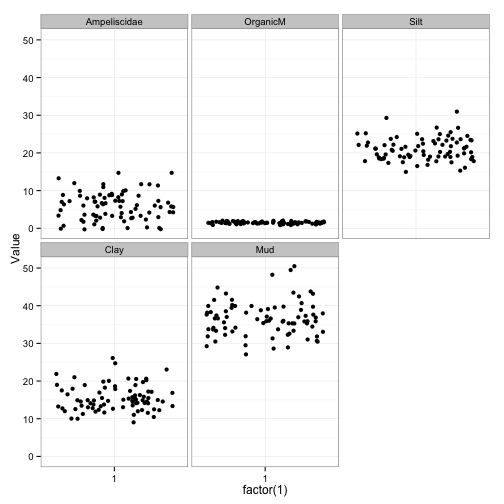
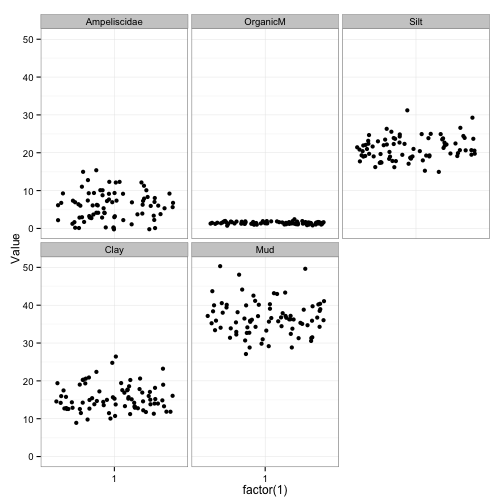
glm assignment (Updated with final plot

diff --git a/GLM_PoisNB.md b/GLM_PoisNB.md
@@ -95,7 +95,7 @@ xtable(table(Benthos$Ampeliscidae))
 ```
 
 % latex table generated in R 3.1.1 by xtable 1.7-4 package
-% Tue May  5 01:02:11 2015
+% Tue May  5 01:12:02 2015
 \begin{table}[ht]
 \centering
 \begin{tabular}{rr}
@@ -120,11 +120,6 @@ xtable(table(Benthos$Ampeliscidae))
    \hline
 \end{tabular}
 \end{table}
-
-
-```
-## stat_bin: binwidth defaulted to range/30. Use 'binwidth = x' to adjust this.
-```
 
 ![plot of chunk unnamed-chunk-5](figure/unnamed-chunk-5-1.png) 
 
@@ -201,15 +196,13 @@ pairs(Benthos[, c("OrganicM", "Mud", "Silt", "Clay")])
 cor(Benthos[, c("OrganicM", "Mud", "Silt", "Clay")]) %>% stargazer(type='html')
 ```
 
-```
-## 
-## <table style="text-align:center"><tr><td colspan="5" style="border-bottom: 1px solid black"></td></tr><tr><td style="text-align:left"></td><td>OrganicM</td><td>Mud</td><td>Silt</td><td>Clay</td></tr>
-## <tr><td colspan="5" style="border-bottom: 1px solid black"></td></tr><tr><td style="text-align:left">OrganicM</td><td>1</td><td>0.061</td><td>0.027</td><td>0.058</td></tr>
-## <tr><td style="text-align:left">Mud</td><td>0.061</td><td>1</td><td>0.658</td><td>0.755</td></tr>
-## <tr><td style="text-align:left">Silt</td><td>0.027</td><td>0.658</td><td>1</td><td>0.002</td></tr>
-## <tr><td style="text-align:left">Clay</td><td>0.058</td><td>0.755</td><td>0.002</td><td>1</td></tr>
-## <tr><td colspan="5" style="border-bottom: 1px solid black"></td></tr></table>
-```
+
+<table style="text-align:center"><tr><td colspan="5" style="border-bottom: 1px solid black"></td></tr><tr><td style="text-align:left"></td><td>OrganicM</td><td>Mud</td><td>Silt</td><td>Clay</td></tr>
+<tr><td colspan="5" style="border-bottom: 1px solid black"></td></tr><tr><td style="text-align:left">OrganicM</td><td>1</td><td>0.061</td><td>0.027</td><td>0.058</td></tr>
+<tr><td style="text-align:left">Mud</td><td>0.061</td><td>1</td><td>0.658</td><td>0.755</td></tr>
+<tr><td style="text-align:left">Silt</td><td>0.027</td><td>0.658</td><td>1</td><td>0.002</td></tr>
+<tr><td style="text-align:left">Clay</td><td>0.058</td><td>0.755</td><td>0.002</td><td>1</td></tr>
+<tr><td colspan="5" style="border-bottom: 1px solid black"></td></tr></table>
 
 Too much collinearity!
 
@@ -583,7 +576,10 @@ geom_smooth(data = myData,
                 color=fFishing,
                 linetype=fPeriod
                 ), stat = "identity")
+p1
 ```
+
+![plot of chunk unnamed-chunk-25](figure/unnamed-chunk-25-1.png) 
 
 Cirratulidae (Second Species)
 ====
@@ -594,14 +590,4 @@ Similar data exploration steps
 
 
 #Sketch model fit
-MyData <- expand.grid(fPeriod = levels(Benthos$fPeriod),
-                      fFishing = levels(Benthos$fFishing))
-MyData
 
-P <- predict(M4, newdata = MyData,
-                    type = "link", se = TRUE)
-
-MyData$Fit   <- exp(P$fit) #need to do exponential
-MyData$SeUp  <- exp(P$fit + 2 * P$se.fit)
-MyData$SeLow <- exp(P$fit - 2 * P$se.fit)
-```
